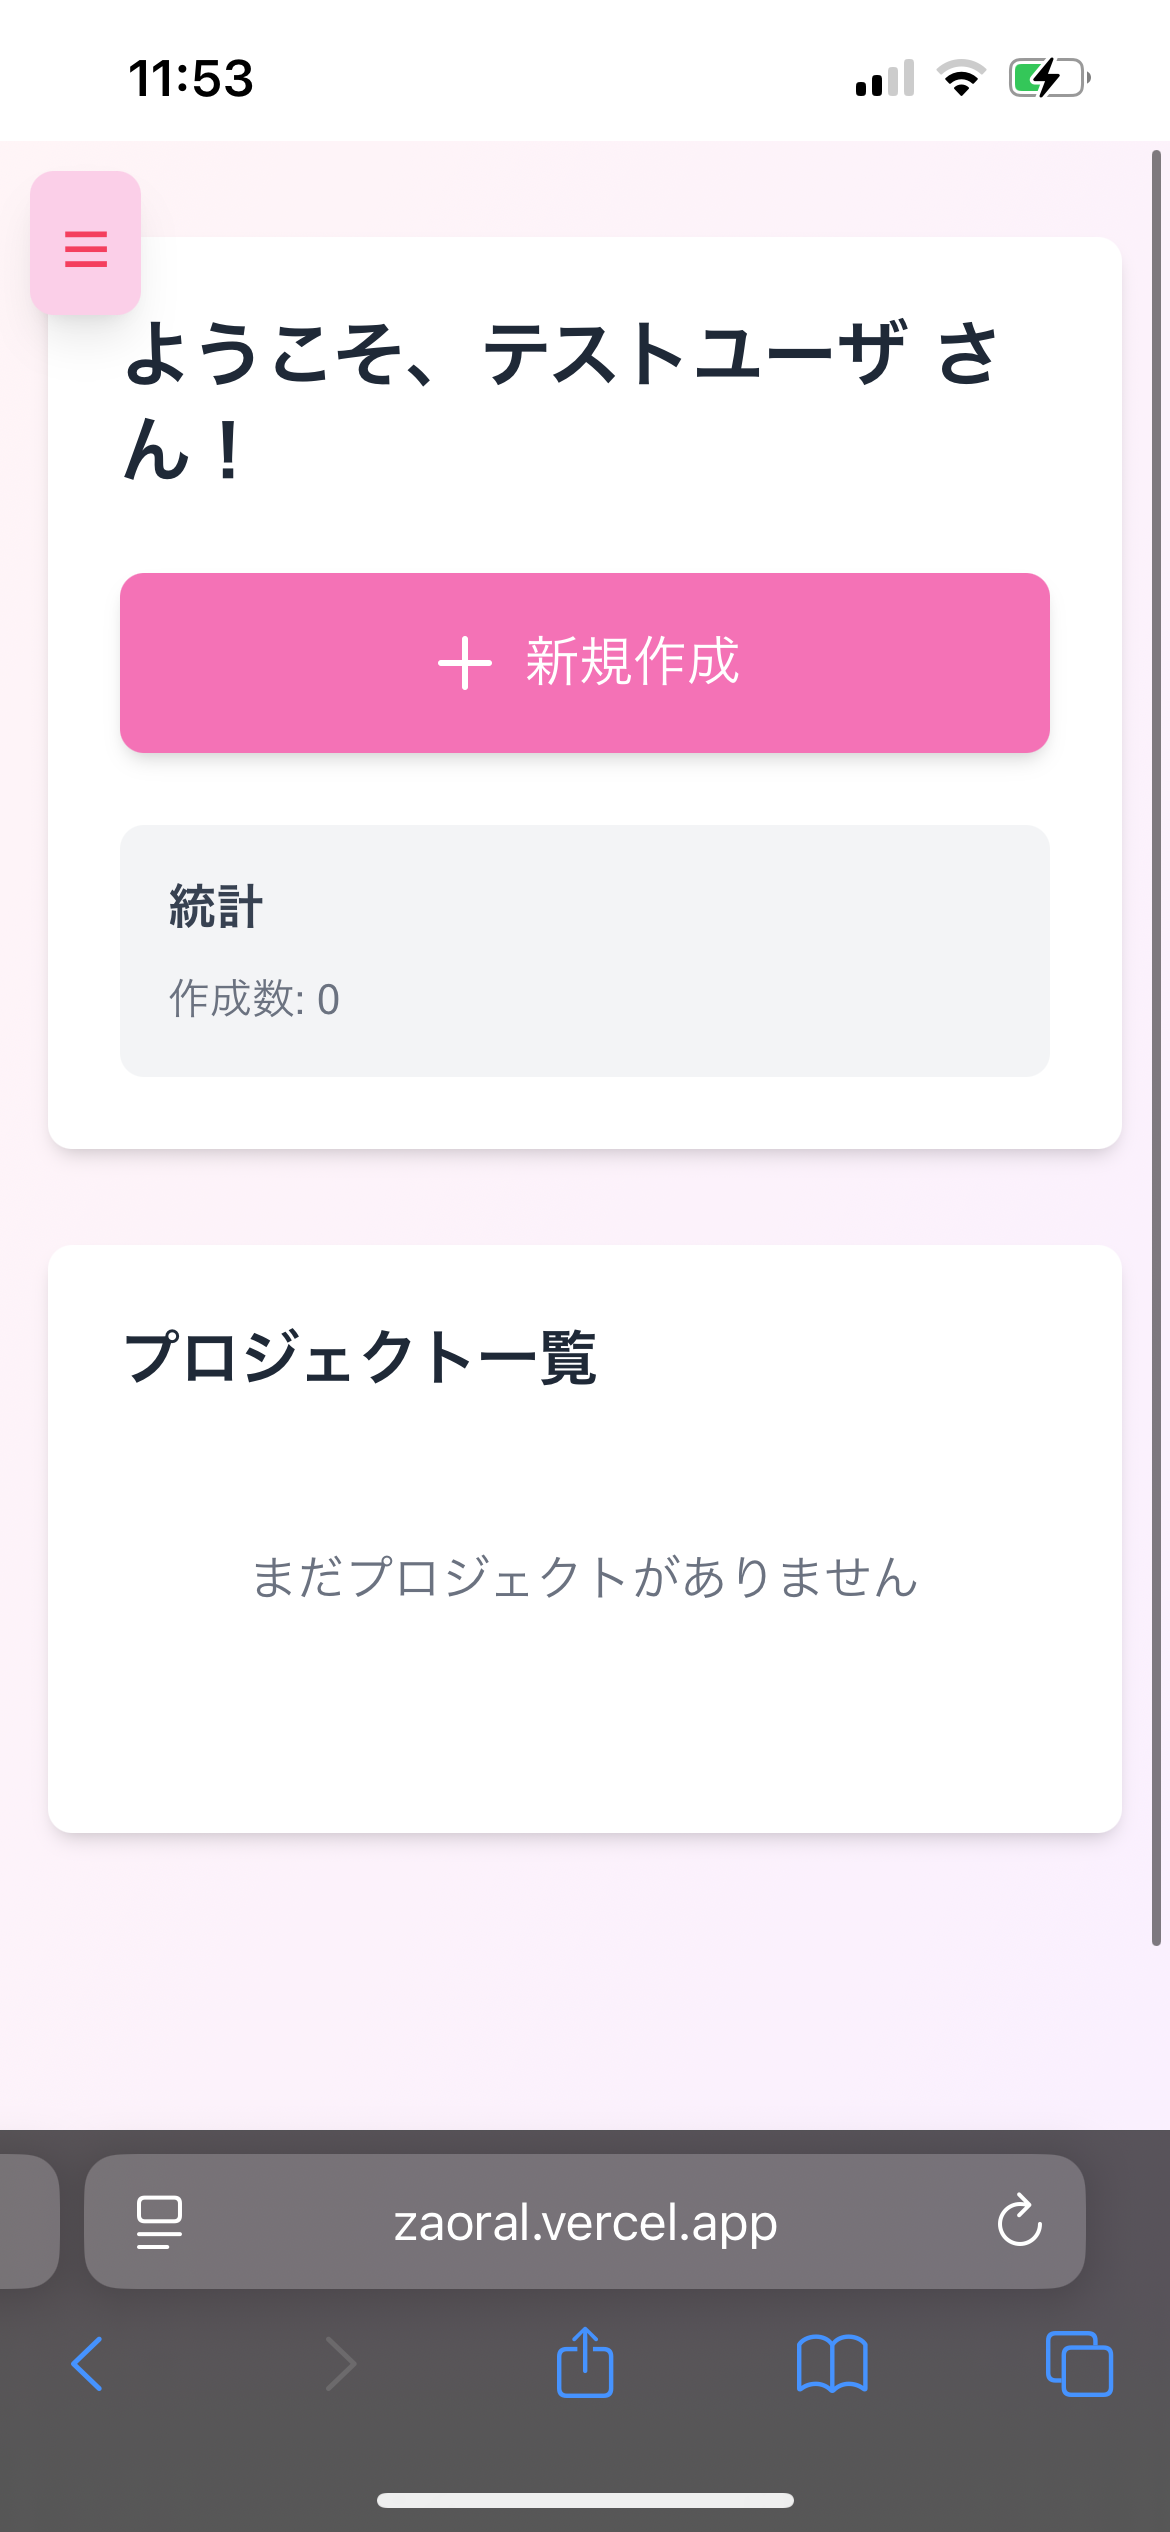
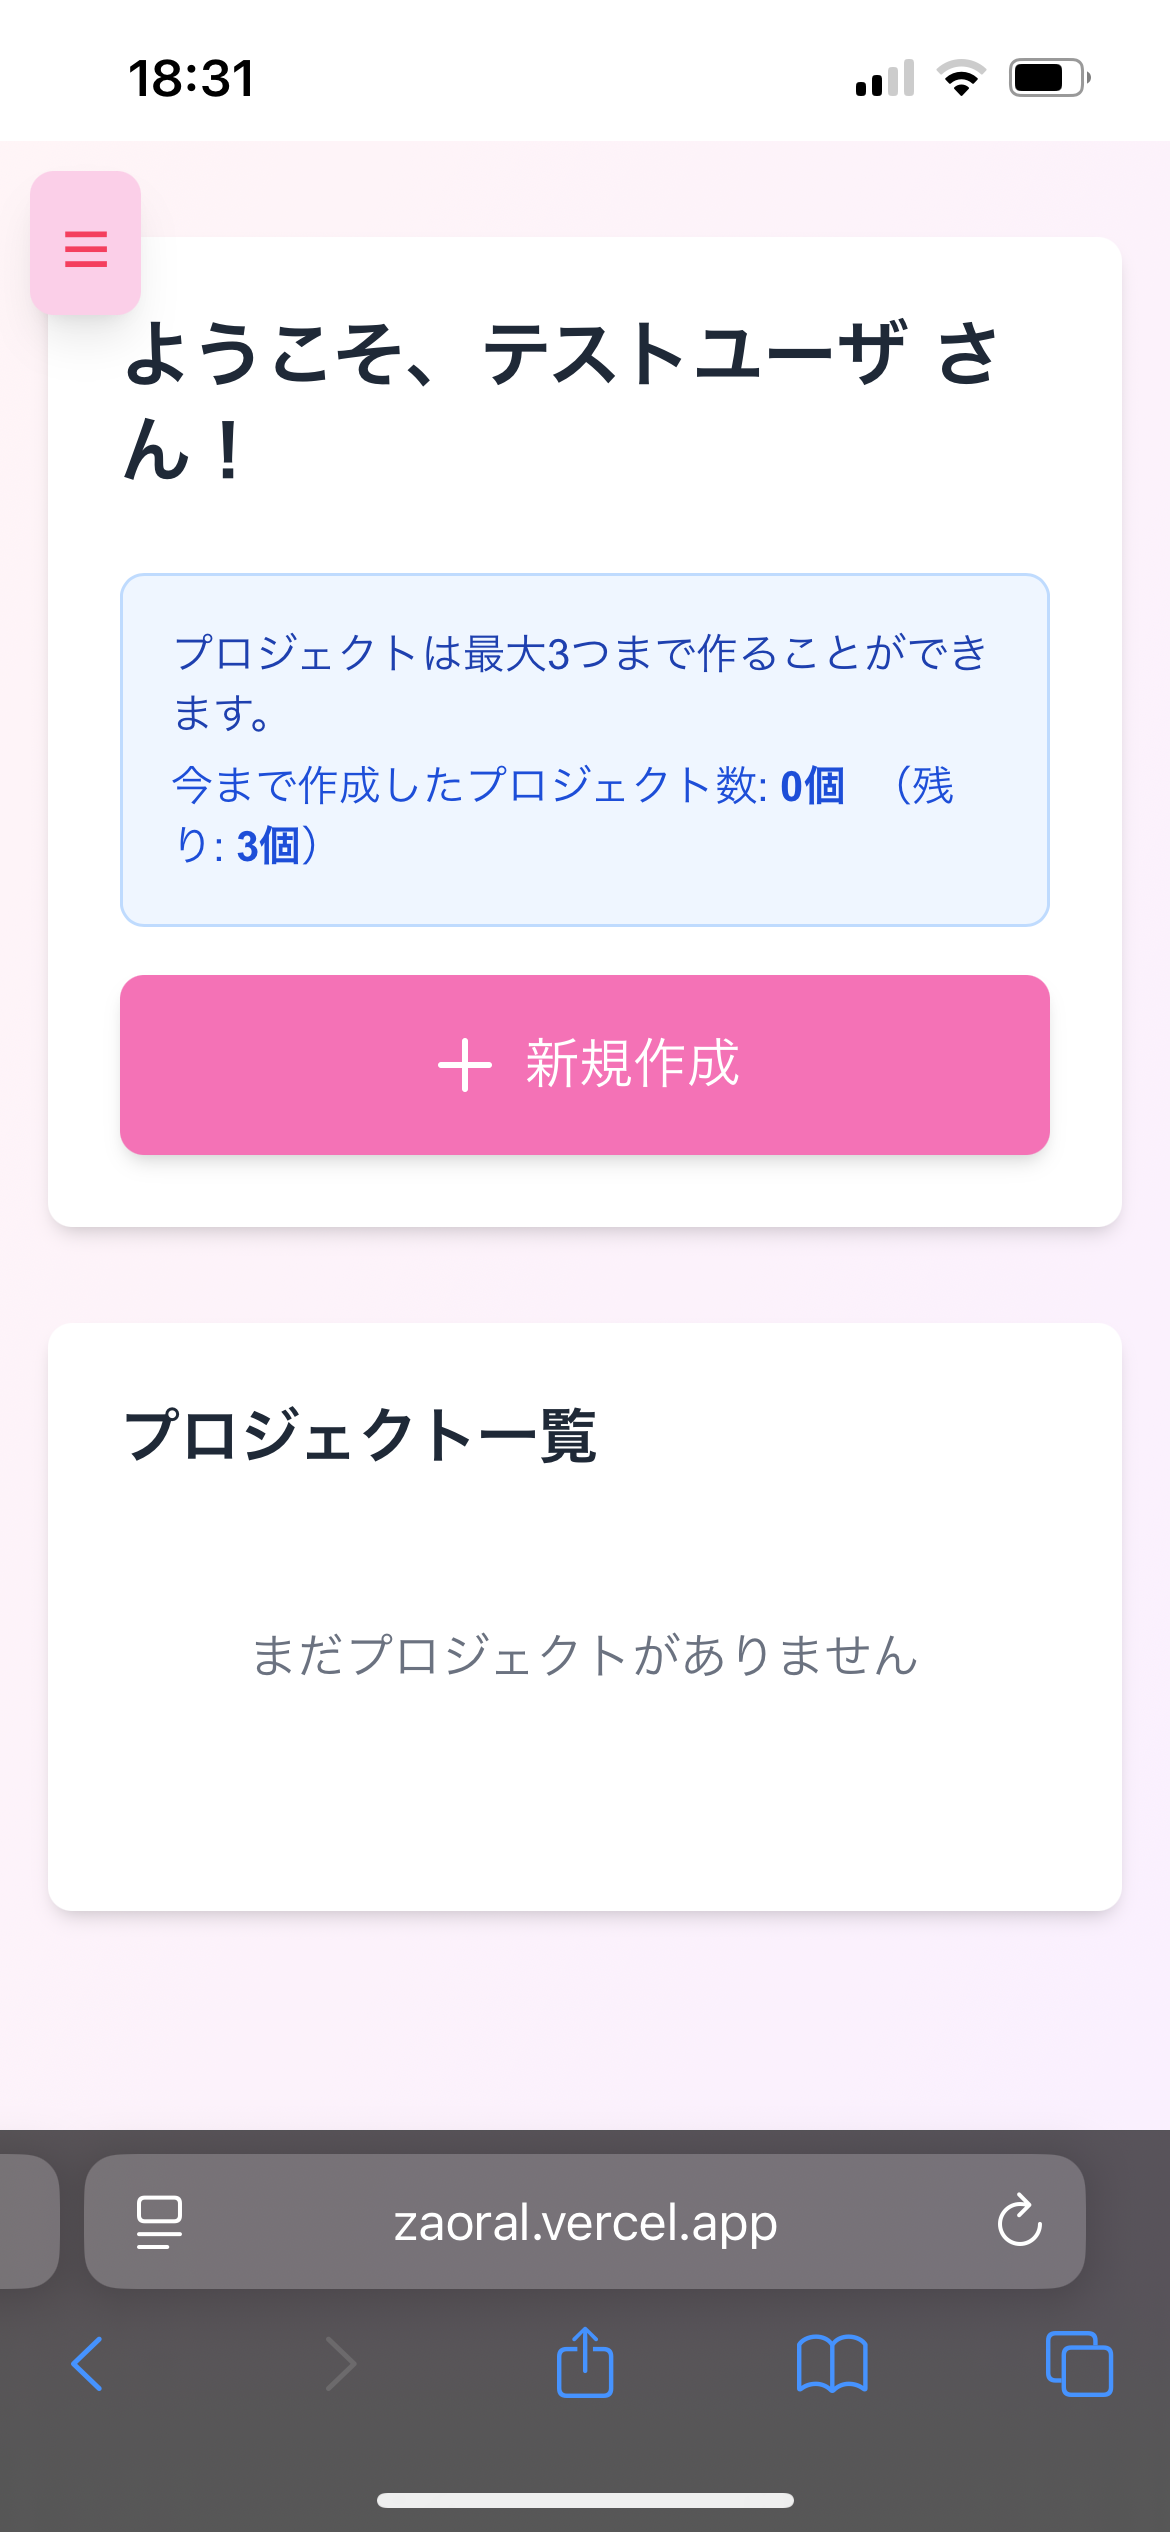
modify：アプリ様子写真,prj追加の追記：docs配置

diff --git a/docs/要件定義書.md b/docs/要件定義書.md
@@ -1,11 +1,11 @@
-# ザオラルサイト – 要件定義書（v1）
+# 要件定義書（v1）
 
 ## 0. 概要
 - **目的**  
-  マッチングアプリで連絡が途切れた相手に対し, URLで返信を促す “軽いLP” を簡単に作って送れるSaaS
+  マッチングアプリなどで連絡が途切れた相手に対し, 返信を促す “軽いLP” を簡単に作ることができるSaaS
 
 ## 1. 対象ユーザー / ペルソナ
-- マッチングアプリ利用者
+- マッチングアプリ利用者やホストなど
 
 ## 2. ユースケース（MVP）
 | ID | ユースケース |
@@ -23,9 +23,11 @@
 4. **公開ページ機能**: 作成したメッセージをWeb上で公開
 
 ### 含めない機能（将来の拡張候補）
-- ページタイプ追加（現在はメッセージ型のみ）
-- トライアル / 課金（Stripe）
-- In-app browser 検知 → 外部ブラウザ誘導（403対策）※未実装
+- 有効期限切れのプロジェクト自動消去（追記：MVP完成後に追加実装しました）
+- プロジェクト作成数制限（追記：MVP完成後に追加実装しました）
+- 課金（Stripe）
+- メッセージ型以外のプロジェクトタイプ（追記：MVP完成後にS3を用いたpictureタイプを追加実装しました）
+- In-app browser 検知 → 外部ブラウザ誘導（403対策）
 
 
 
@@ -36,18 +38,17 @@
 - **認証要件**: プロジェクト作成・管理機能は認証必須
 
 ### 4.2 プロジェクト作成
-- **入力項目**: メッセージ本文
+- **入力項目**: プロジェクト名とメッセージ本文
 - **自動設定**: 
   - slugはランダムに決定
   - プロジェクトタイプは `message` 
   - 有効期限は作成日時から31日後
 - **URL発行**: プロジェクト作成時に一意のURLが発行される
-- **制約**: スラッグとメッセージは必須項目
 
 ### 4.3 プロジェクト管理（ダッシュボード）
-- **表示内容**: ログインユーザーが作成したプロジェクトの一覧
+- **表示内容**: ログインユーザが作成したプロジェクトの一覧
 - **表示順序**: 作成日時の降順
-- **表示条件**: 有効期限内のプロジェクトのみ表示
+- **表示条件**: 有効期限切れ1ヶ月後以内のプロジェクトのみ表示
 - **操作機能**: プロジェクトの削除（所有者のみ可能）
 
 ### 4.4 公開ページ

diff --git a/docs/詳細設計書.md b/docs/詳細設計書.md
@@ -1,31 +1,30 @@
-# 詳細設計書
+# 詳細設計書（v1）
 
 ## 1. 技術スタック
 
 ### フロントエンド
-- **Next.js 14** (App Router)
+- **Next.js 14** 
 - **TypeScript** 
 - **Tailwind CSS** 
-- **NextAuth.js v5** (認証)
+- **NextAuth.js v5** 
 
-### バックエンド
-- **Next.js 14** (Webサーバ)
+### Webサーバ
+- **Next.js 14など** (Zaoral_backend3参照)
 
 ### データベース
-- **PostgreSQL** (データベース)
-- **Prisma** (ORM)
-- **@auth/prisma-adapter** (NextAuth.js用Prismaアダプター) 
+- **PostgreSQL** 
+- **Prisma** 
 
 ## 2. 画面/フロー
 
-- `/` → ホーム（Hero、ナビゲーション）
-- `/auth/signin` → Google/LINEログイン開始
+- `/` → ホーム
+- `/zaoral` → アプリ説明ページ
+- `/howToUse` → 使い方説明ページ
 - `/dashboard` → 新規作成ボタン・プロジェクト一覧・詳細表示・URLコピー機能
 - `/create` → 入力→作成→URL表示
-- `/p/:slug` → 公開ページ（プロジェクト表示）
-- `/zaoral` → サービス説明ページ
+- `/auth/signin` → Google/LINEログイン開始
 - `/account` → アカウント設定ページ
-- `/howToUse` → 使い方説明ページ
+- `/p/:slug` → 公開ページ（Zaoral_backen3参照）
 
 ## 3. API（MVP）
 
@@ -83,8 +82,7 @@
     }
     ```
   - **機能**: ログインユーザーのプロジェクト一覧取得
-  - **フィルタ**: 有効期限内のプロジェクトのみ（`expires_at > 現在時刻`）
-  - **ソート**: 作成日時の降順
+  - **フィルタ**: 有効期限切れ1ヶ月後以内のプロジェクトのみ
   
 - `DELETE /api/projects?id=:id`
   - **認証**: 必須
@@ -103,8 +101,8 @@
 - `GET /p/:slug`
   - **認証**: 不要（公開エンドポイント）
   - **機能**: 公開プロジェクト取得（有効期限内のみ）
-  - **詳細**: 別バックエンドサービス（Zaoral_backend3）で実装
+  - **詳細**: 別バックエンドサービス（Zaoral_backend3）にて実装
 
 ## 4. ER図（PostgreSQL）（MVP）
 
-<img src="./public/ER.png" alt="ER図" width="70%" />
+<img src="../public/ER.png" alt="ER図" width="70%" />

diff --git a/docs/README_EN.md b/docs/README_EN.md
@@ -18,25 +18,29 @@ Unknown
 ## Features
 
 - **User Authentication**: Login with Google OAuth
-- **Message Creation**: Simple message creation and publishing functionality
+- **Project Creation**: Upload messages or pictures to the web
 - **Project Management**: View and delete created projects from the dashboard
 
-※ For details, see the [Requirements Document](https://github.com/So-213/Zaoral/blob/master/%E8%A6%81%E4%BB%B6%E5%AE%9A%E7%BE%A9%E6%9B%B8.md) and [Detailed Design Document](https://github.com/So-213/Zaoral/blob/master/%E8%A9%B3%E7%B4%B0%E8%A8%AD%E8%A8%88%E6%9B%B8.md)
+※ For details, see the [Requirements Document](要件定義書.md) and [Detailed Design Document](詳細設計書.md)
 
 ## App Screenshots
 
+<img src="../public/home.PNG" alt="home" width="33%" />
+
 **Home Screen**
-<img src="./public/home.PNG" alt="home" width="33%" />
+
+<img src="../public/d0.PNG" alt="dashboard0" width="33%" />
 
 **Empty Dashboard**
-<img src="./public/d0.PNG" alt="dashboard0" width="33%" />
+
+<img src="../public/wc.PNG" alt="webpagecreate" width="33%" />
 
 **Message Creation Screen**
-<img src="./public/wc.PNG" alt="webpagecreate" width="33%" />
+
+<img src="../public/wp.PNG" alt="webpage" width="33%" />
 
 **Published Message Screen**
-<img src="./public/wp.PNG" alt="webpage" width="33%" />
+
+<img src="../public/d1.PNG" alt="dashboard1" width="33%" />
 
 **Dashboard Screen**
-<img src="./public/d1.PNG" alt="dashboard1" width="33%" />
-

diff --git a/README.md b/README.md
@@ -1,6 +1,6 @@
 # Zaoral 
 
-[English](README_EN.md) | [中文](README_ZH.md)
+[English](docs/README_EN.md) | [中文](docs/README_ZH.md)
 
 <img src="./public/Zaoral_README.png" alt="Zaoral" width="70%" />
 
@@ -20,10 +20,10 @@
 ## 機能
 
 - **ユーザ認証**: Google OAuthによるログイン
-- **メッセージ作成**: 簡単なメッセージ作成と公開機能
+- **プロジェクト作成**: メッセージや写真をWeb上へアップロード
 - **プロジェクト管理**: ダッシュボードにて作成したプロジェクトの確認/削除
 
-※ 詳細は[要件定義書](https://github.com/So-213/Zaoral/blob/master/%E8%A6%81%E4%BB%B6%E5%AE%9A%E7%BE%A9%E6%9B%B8.md)及び[詳細設計書](https://github.com/So-213/Zaoral/blob/master/%E8%A9%B3%E7%B4%B0%E8%A8%AD%E8%A8%88%E6%9B%B8.md)参照
+※ 詳細は[要件定義書](docs/要件定義書.md)及び[詳細設計書](docs/詳細設計書.md)参照
 
 
 ## アプリの様子
